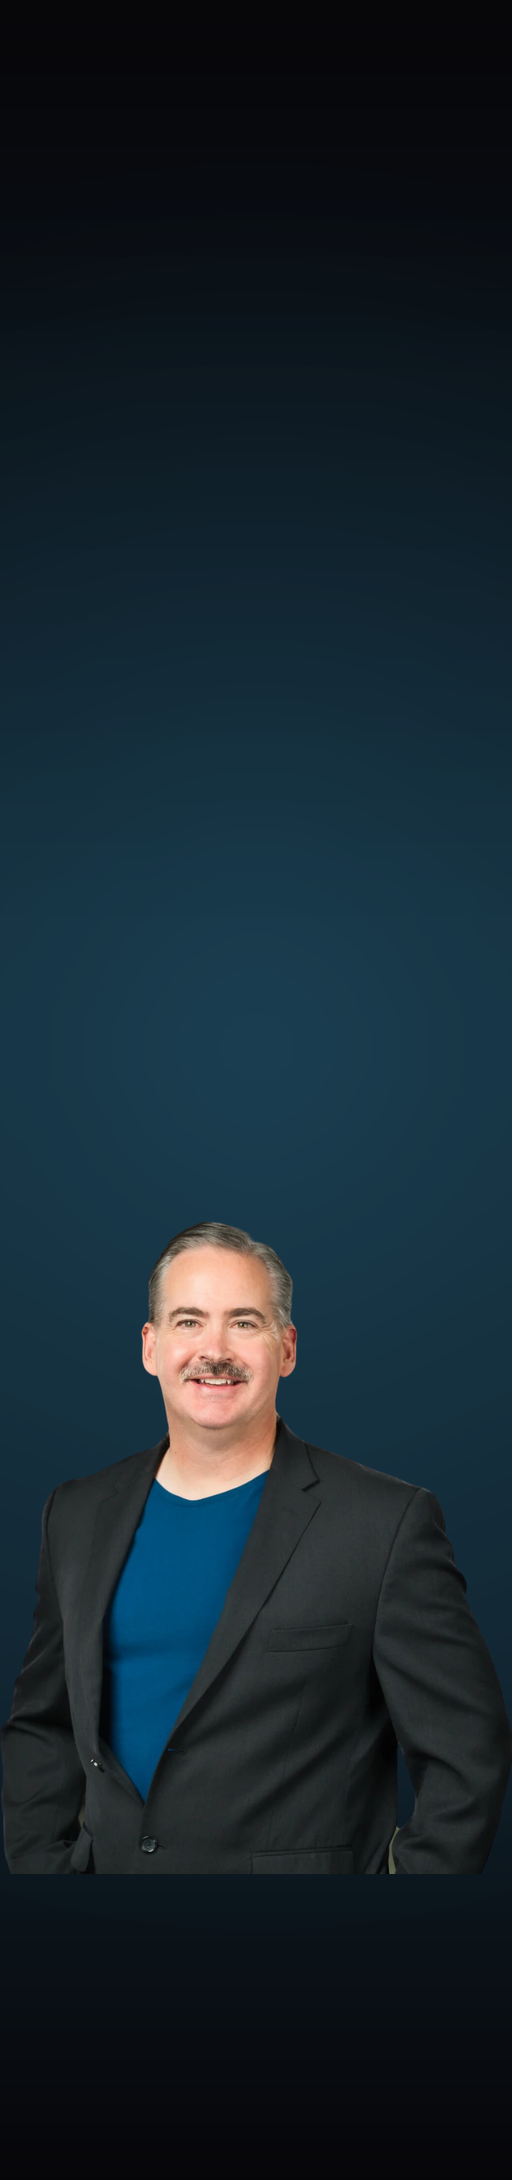
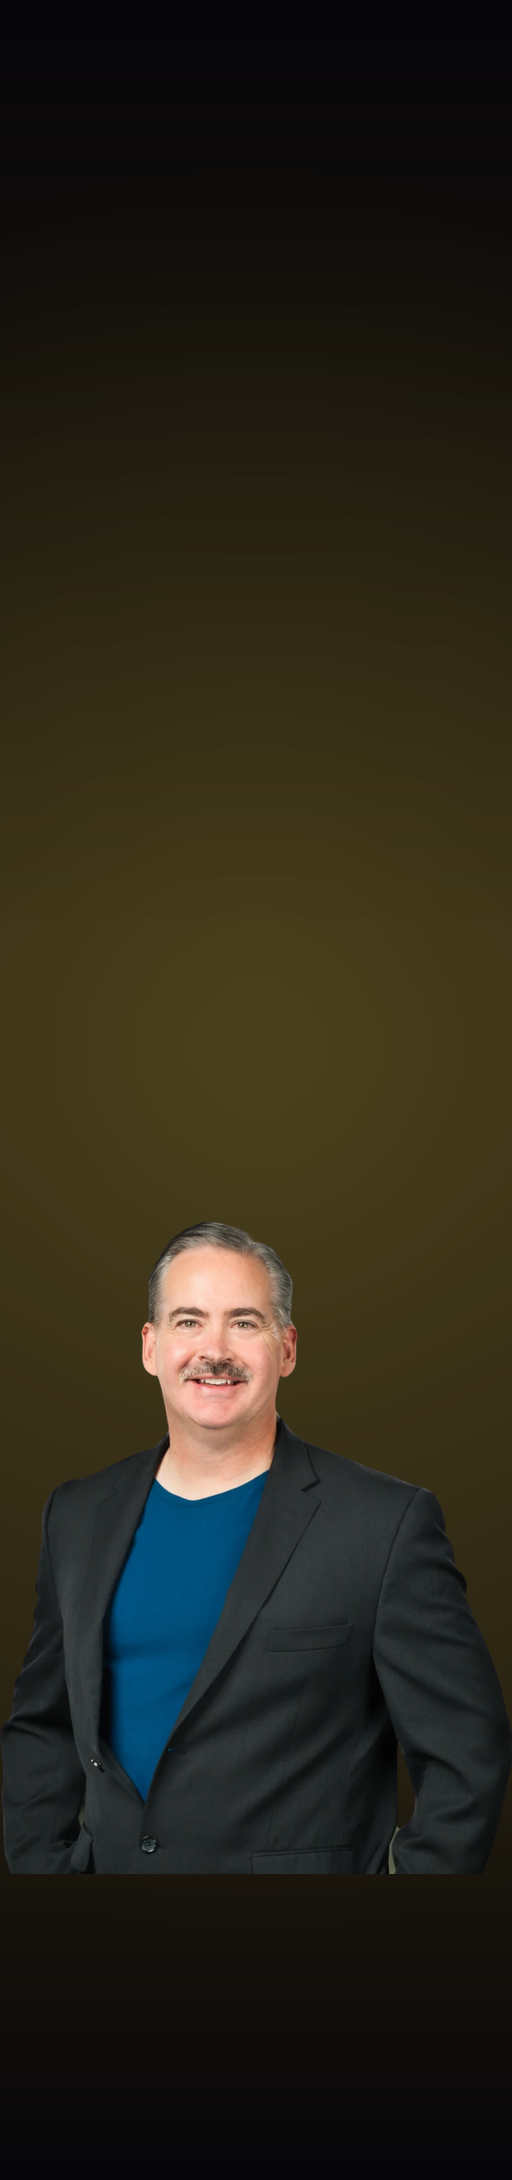
Match brand palette: cranberry #9B1B30, gold-light author, brand accents on interior pages

diff --git a/site.css b/site.css
@@ -3,8 +3,8 @@
    Dark cinematic theme matching the lobby.
    ============================================ */
 :root {
-  --accent: #D4AF37;
-  --cranberry: #C21E56;
+  --accent: #D4AF37;      /* brand gold (matches brettlechtenberg.com) */
+  --cranberry: #9B1B30;   /* brand cranberry */
   --bg: #070607;
   --panel: #0E0C0E;
   --text: #EDE9E1;
@@ -64,7 +64,7 @@ h2.h {
 p.body { color: #C9C4BA; max-width: 720px; margin-bottom: 18px; }
 p.body strong { color: var(--text); }
 blockquote.pull {
-  border-left: 2px solid var(--accent); padding-left: 24px; margin: 34px 0;
+  border-left: 2px solid var(--cranberry); padding-left: 24px; margin: 34px 0;
   font-family: 'Cormorant Garamond', serif; font-size: 24px; font-style: italic; line-height: 1.5;
 }
 blockquote.pull footer {
@@ -84,7 +84,7 @@ blockquote.pull footer {
   border: 1px solid var(--line); border-radius: 14px; padding: 28px 26px;
   background: var(--panel); transition: border-color 0.3s, transform 0.3s;
 }
-.card:hover { border-color: rgba(212, 175, 55, 0.45); transform: translateY(-3px); }
+.card:hover { border-color: rgba(155, 27, 48, 0.65); transform: translateY(-3px); }
 .card .tag {
   font-family: 'DM Mono', monospace; font-size: 10px; letter-spacing: 0.18em;
   text-transform: uppercase; color: var(--accent);
@@ -120,6 +120,7 @@ blockquote.pull footer {
 }
 .btn:hover { transform: translateY(-2px); box-shadow: 0 10px 34px rgba(212, 175, 55, 0.3); }
 .btn.ghost { background: transparent; color: var(--text); border: 1px solid rgba(237, 233, 225, 0.25); margin-left: 12px; }
+.btn.ghost:hover { border-color: var(--cranberry); box-shadow: 0 10px 34px rgba(155, 27, 48, 0.35); }
 
 /* ---------- footer ---------- */
 .footer {

diff --git a/index.html b/index.html
@@ -10,7 +10,8 @@
 <link href="https://fonts.googleapis.com/css2?family=Cormorant+Garamond:ital,wght@0,400;0,500;0,600;1,400&family=DM+Mono:wght@400;500&family=DM+Sans:wght@400;500;700&display=swap" rel="stylesheet">
 <style>
 :root {
-  --accent: #D4AF37;
+  --accent: #D4AF37;      /* brand gold */
+  --cranberry: #9B1B30;   /* brand cranberry */
   --bg: #070607;
   --text: #EDE9E1;
   --dim: #9A948A;
@@ -200,14 +201,14 @@ const CLASSES = [
     about: 'Science-backed keynotes built on the Master\'s Edge methodology — First Principles to clarify, Frontloading to simplify, and Flow to maximize — tailored to your room, your industry, and your outcomes. Four lanes: Peak Performance & Mindset, Leadership & Team Culture, Sales & Ethical Influence, and AI for Humans. From Fortune 500 teams like American Express and Delta to chambers of commerce and championship locker rooms, Brett delivers transformation that outlasts the event. His rule: "Hacks are for hacks."',
     stats: [['4 Lanes', 'one methodology'], ['Fortune 500', 'AmEx · Delta · Citigroup'], ['60–90 min', 'keynote to full-day']],
     engage: 'Booking keynotes, corporate trainings, and workshops. If your event needs energy AND substance — with tools your people use Monday morning — this is the room.' },
-  { key: 'coach', name: 'The Performance Coach', accent: '#C21E56', auraRGB: '194,30,86',
+  { key: 'coach', name: 'The Performance Coach', accent: '#C4324A', auraRGB: '196,50,74',
     power: 'Finds the gap between where you are and who you could be.',
     line: 'The Master\'s Edge — Clarify. Simplify. Maximize.',
     aboutH: 'A proven system for peak performance.',
     about: 'The Master\'s Edge is Brett\'s proprietary coaching methodology — built on 30+ years of real-world business ownership, original flow state research reviewed and validated by the Flow Research Collective, and the same progressive mastery framework that creates black belts. Three pillars: Mindset Mastery, Skillset Enhancement, and the Support Structure that sustains peak performance over time. He only teaches what he\'s tested in his own business. That\'s the difference.',
     stats: [['30+', 'years in business'], ['Flow Research', 'validated by the Flow Research Collective'], ['3 Pillars', 'mindset · skillset · support']],
     engage: 'Taking a limited number of private coaching clients — leaders, teams, and business owners ready to operate differently. No pitch. No pressure. Bring a real goal.' },
-  { key: 'author', name: 'The Author', accent: '#3FA7D6', auraRGB: '63,167,214',
+  { key: 'author', name: 'The Author', accent: '#E8C84A', auraRGB: '232,200,74',
     power: 'Teaches what he\'s tested. Writes what he\'s lived.',
     line: 'Seven books. Five bestsellers.',
     aboutH: 'Ideas that have helped thousands.',